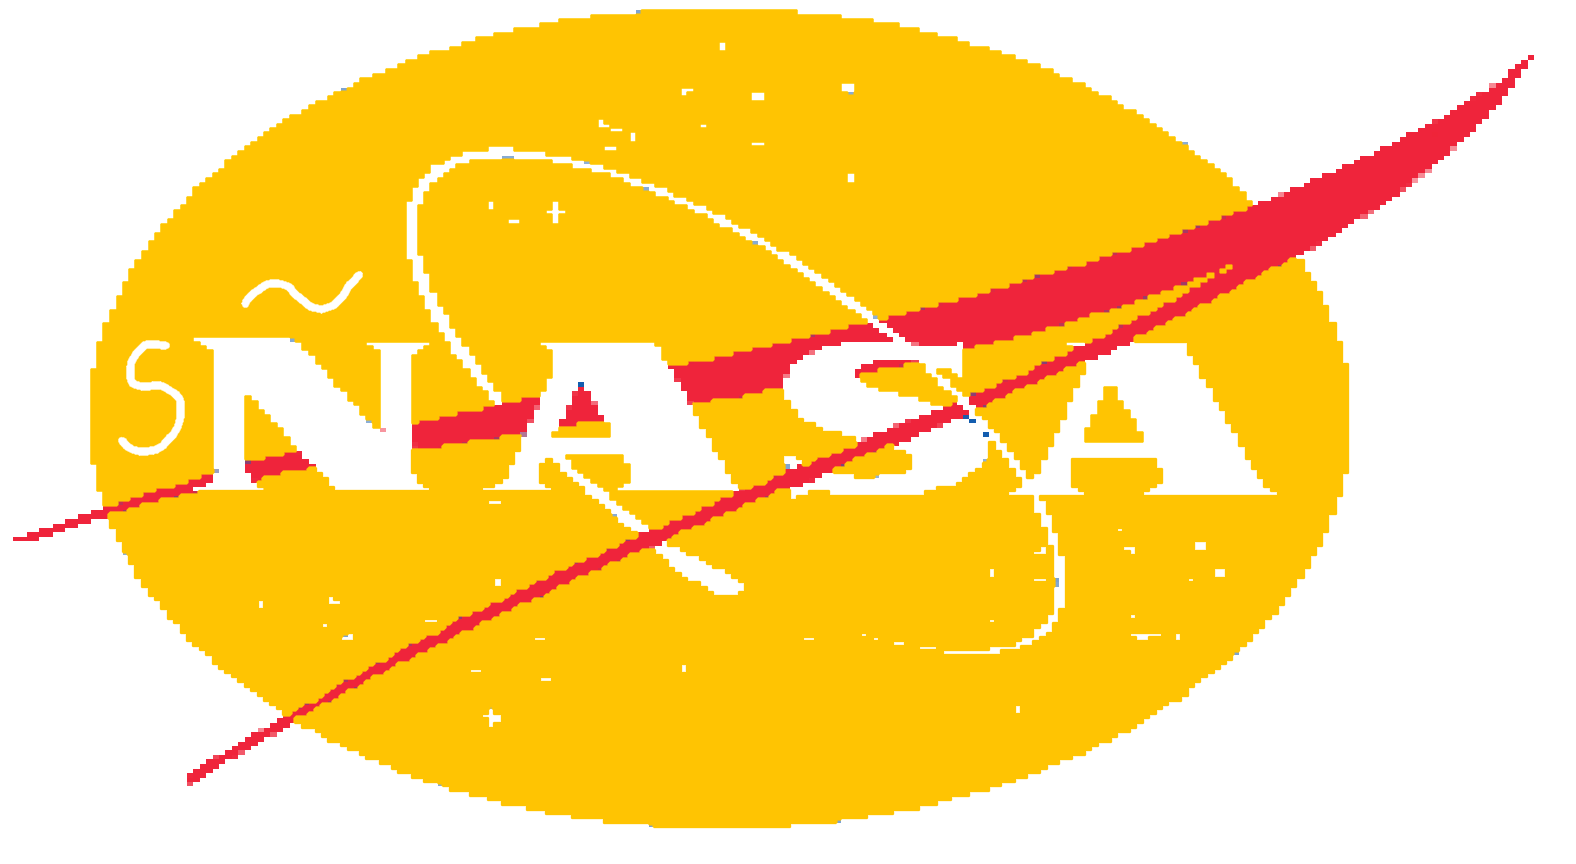
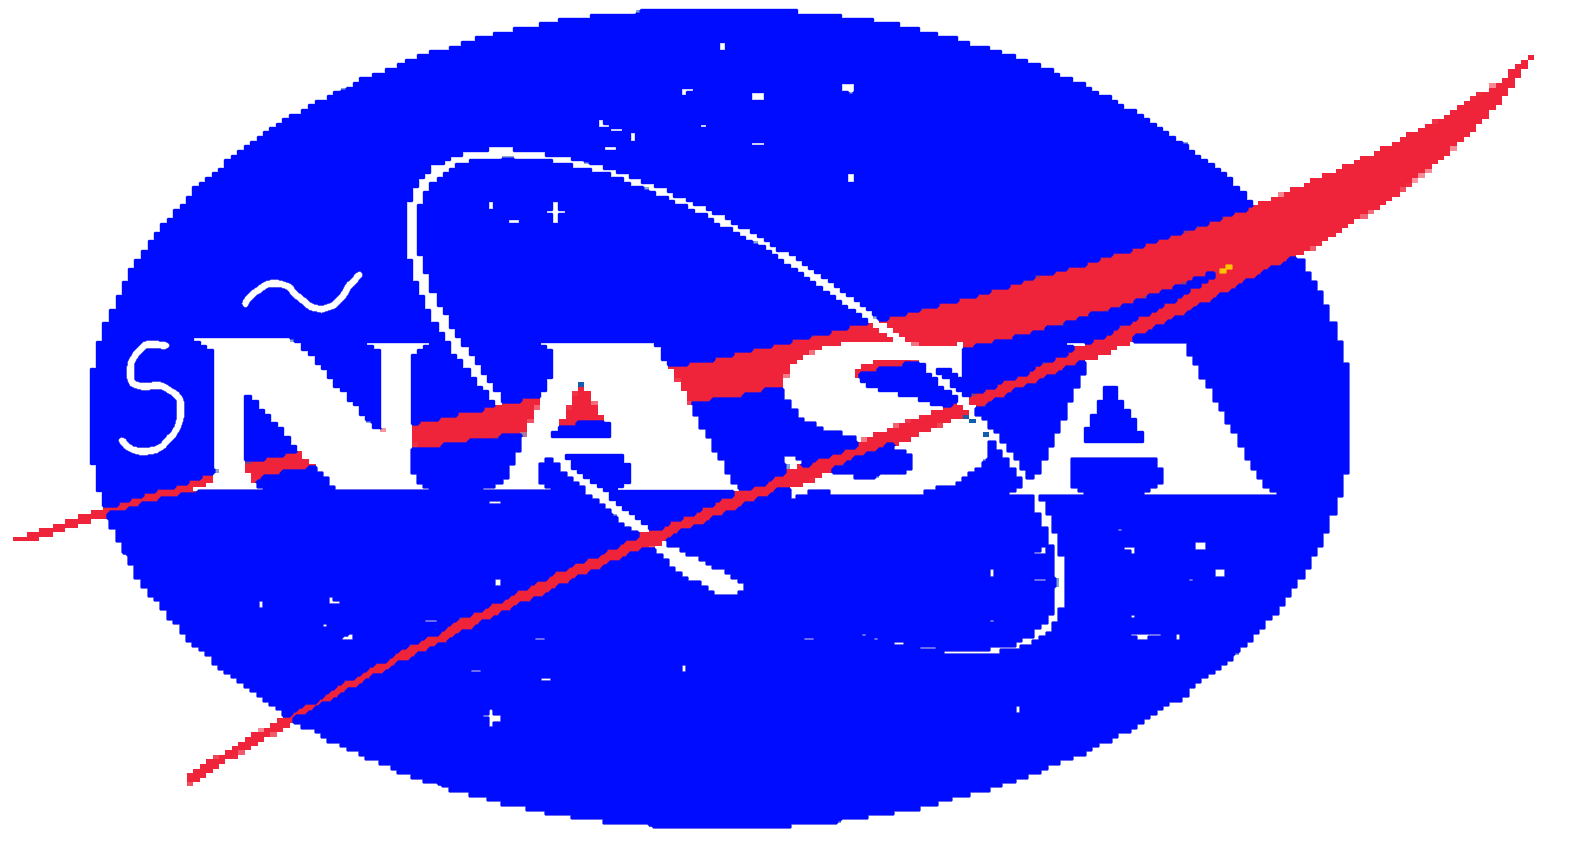
Edits

diff --git a/index.html b/index.html
@@ -24,7 +24,11 @@
             <p class = "nasa">
                 <br>
                 El Piernas es un monstruo escondido del mundo exterior por el estado de la nasa. ¡El piernas caza a los niños pequeños en la calle! Cuando el piernas está cerca, silba una melodía escalofriante. Se puede escuchar en el video de arriba. Nadie sabe cómo ataca El Piernas, porque nadie ha sobrevivido a sus ataques. El video que se muestra es un video filtrado del gobierno de la OTAN. Y ahora se conoce como una leyenda urbana. Según fuentes muy respetadas, El Piernas ha existido en varios miles de años. ¡Es realmente espeluznante!
+                El Piernas escapó de las cárceles de la nasa som hace tiempo y desde que anda suelto y cazando. La NASA ha estado tratando de ocultarlo, pero no han tenido éxito. ¡Por eso existe el video de arriba!
+                
                 <br> <br> Yo, ¿qué demonios digo sobre las mujeres? Sabes que has estado involucrado en muchos ataques contra el secreto de al-Qaeda, tú y yo, maté a más de 300 personas, me confirmaron y terminé en la clase alta de la Armada. Para entrenar una guerra de gorilas, soy el mejor francotirador del ejército de EE. UU. No eres solo otro objetivo para mí. Esa mierda es absurda de limpiar que nunca he visto en el planeta, recuerda mis palabras a fondo. ¿Crees que estás en Internet y puedes salirte con la suya? Piensa de nuevo, bastardo. Estoy en contacto con una red secreta de espías para rastrear la dirección IP en los Estados Unidos y la corriente, en el momento en que puedo prepararme para la tormenta, más larvas. Tormenta que destruye el desafío de mi vida miserable. Eres un maldito niño muerto. En cualquier momento, puedo estar en cualquier lugar, puedo matar más de 700 carreteras, estas son solo mis manos. No solo, fui entrenado en combate desarmado extensivamente, tengo acceso al Cuerpo de Marines, al arma completa en los Estados Unidos, para sacar de la cara de la mierda de culo ilegal, continental, se usará tanto como sea posible . Sin embargo, si supieras que su lengua era graciosa, y su recompensa "inteligente", tus comentarios al borde de tu malvado yo pequeño. Sin embargo, ahora estoy jodidamente pagado, el precio y el tonto, no, no lo hizo. Estoy loco porque te ahogas en eso. Mi hijo esta muerto
+                
+                
                 <br> <br> Hice un lapso severo y continuo en mi juicio, y no espero que me perdonen. Simplemente estoy aquí para disculparme.
 
                 Lo que encontramos en el bosque ese día obviamente no fue planeado. Las reacciones que viste en la cinta fueron crudas; estaban sin filtrar. Ninguno de nosotros sabía cómo reaccionar o cómo sentirnos. Nunca debí haber publicado el video. Debería haber bajado las cámaras y dejado de grabar lo que estábamos pasando.

diff --git a/style.css b/style.css
@@ -29,15 +29,15 @@ body{
 }
 h4{
     font-family: 'Franklin Gothic Medium', 'Arial Narrow', Arial, sans-serif;
-    color: blue;
+    color: rgb(60, 60, 245);
     font-size: 39px;
 }
 p{
-    color: blue;
+    color: rgb(45, 45, 214);
     font-family: 'Teko', sans-serif;
     font-size: 20px;
 }
 .nasa{
-    color: #b0dfe5;
+    color: rgb(155, 155, 255);
     font-size: 20px;
 }
